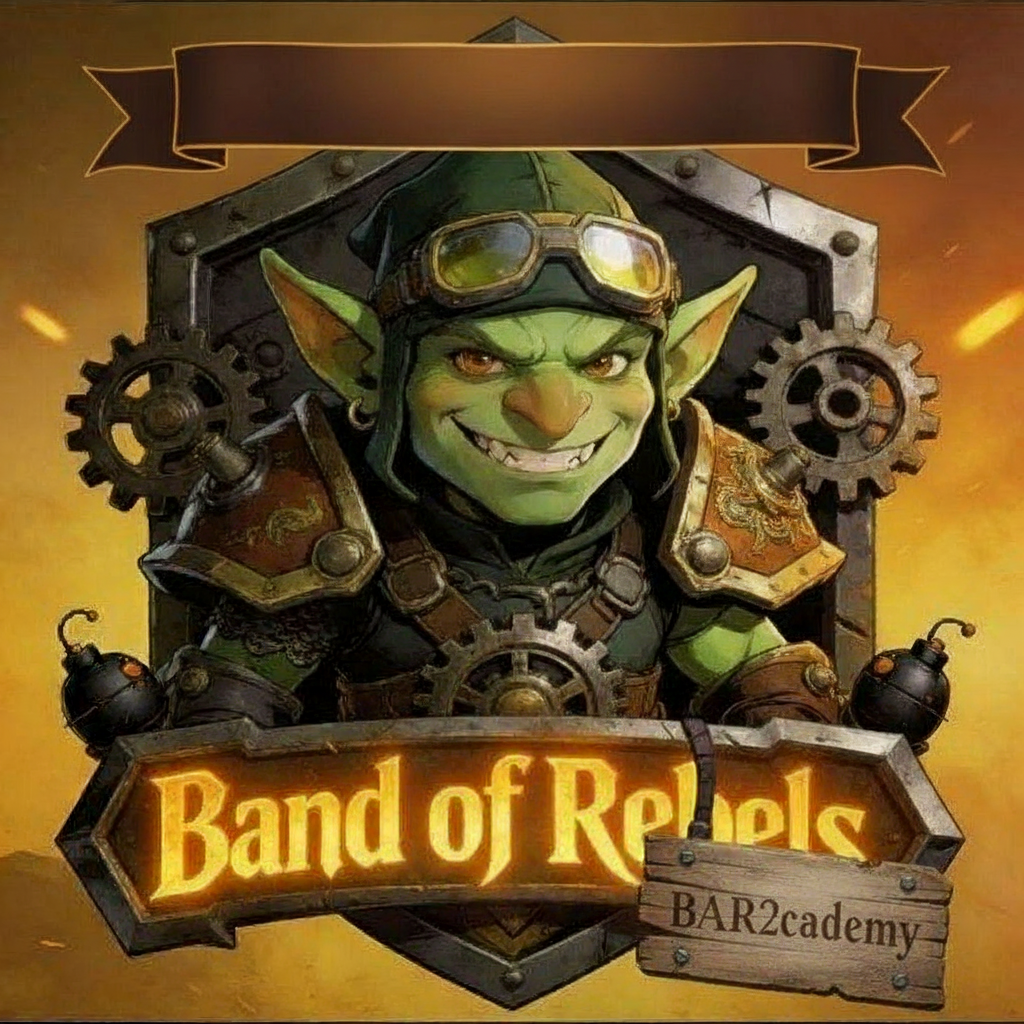
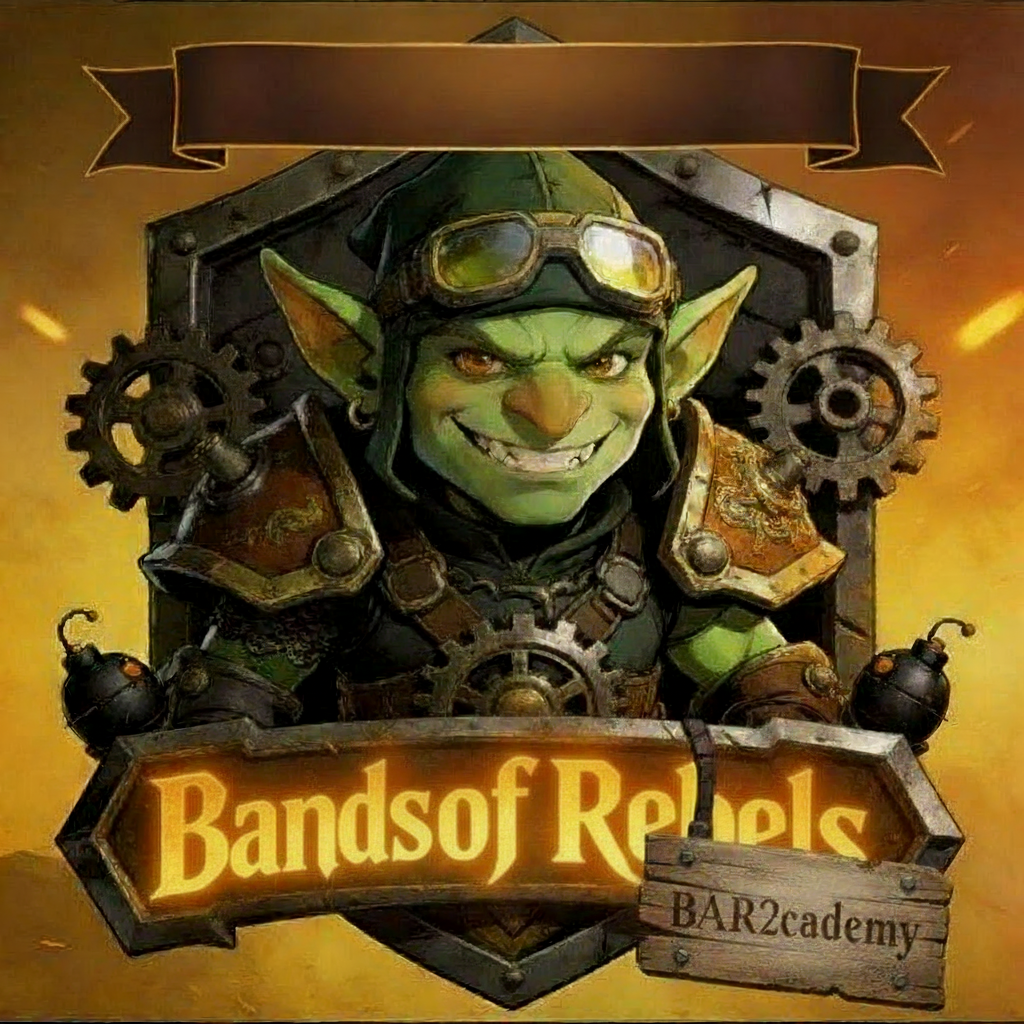
change to bands

diff --git a/index.html b/index.html
@@ -3,7 +3,7 @@
 <head>
     <meta charset="UTF-8">
     <meta name="viewport" content="width=device-width, initial-scale=1.0">
-    <title>Band of Rebels / Academy Name Generator</title>
+    <title>Bands of Rebels / Academy Name Generator</title>
     <link rel="preconnect" href="https://fonts.googleapis.com">
     <link rel="preconnect" href="https://fonts.gstatic.com" crossorigin>
     <link href="https://fonts.googleapis.com/css2?family=Orbitron:wght@900&display=swap" rel="stylesheet">
@@ -11,10 +11,10 @@
 </head>
 <body>
     <div class="container">
-        <h1>#1692 Band of Rebels / BAR2cademy</h1>
+        <h1>#1692 Bands of Rebels / BAR2cademy</h1>
         <p>Live preview: Type name and select banner to see changes.</p>
         <select id="bannerType" onchange="updatePreview()">
-            <option value="rebels">Band of Rebels</option>
+            <option value="rebels">Bands of Rebels</option>
             <option value="academy">BAR2cademy</option>
         </select>
         <input type="text" id="playerName" placeholder="Player Name" maxlength="20" oninput="updatePreview()">

diff --git a/readme.md b/readme.md
@@ -1,4 +1,4 @@
-# 🎮 #1692 Band of Rebels / BAR2cademy Banner Generator
+# 🎮 #1692 Bands of Rebels / BAR2cademy Banner Generator
 
 **Personalisiere Banner für deine Allianz!** Name eingeben → Live Preview → PNG Download.
 
@@ -31,7 +31,7 @@ text
 ├── index.html # App\
 ├── style.css # Steampunk Design\
 ├── script.js # Canvas + Auto-Fit\
-├── rebels.png # Band of Rebels Banner\
+├── rebels.png # Bands of Rebels Banner\
 └── academy.png # Academy Banner
 
 text
